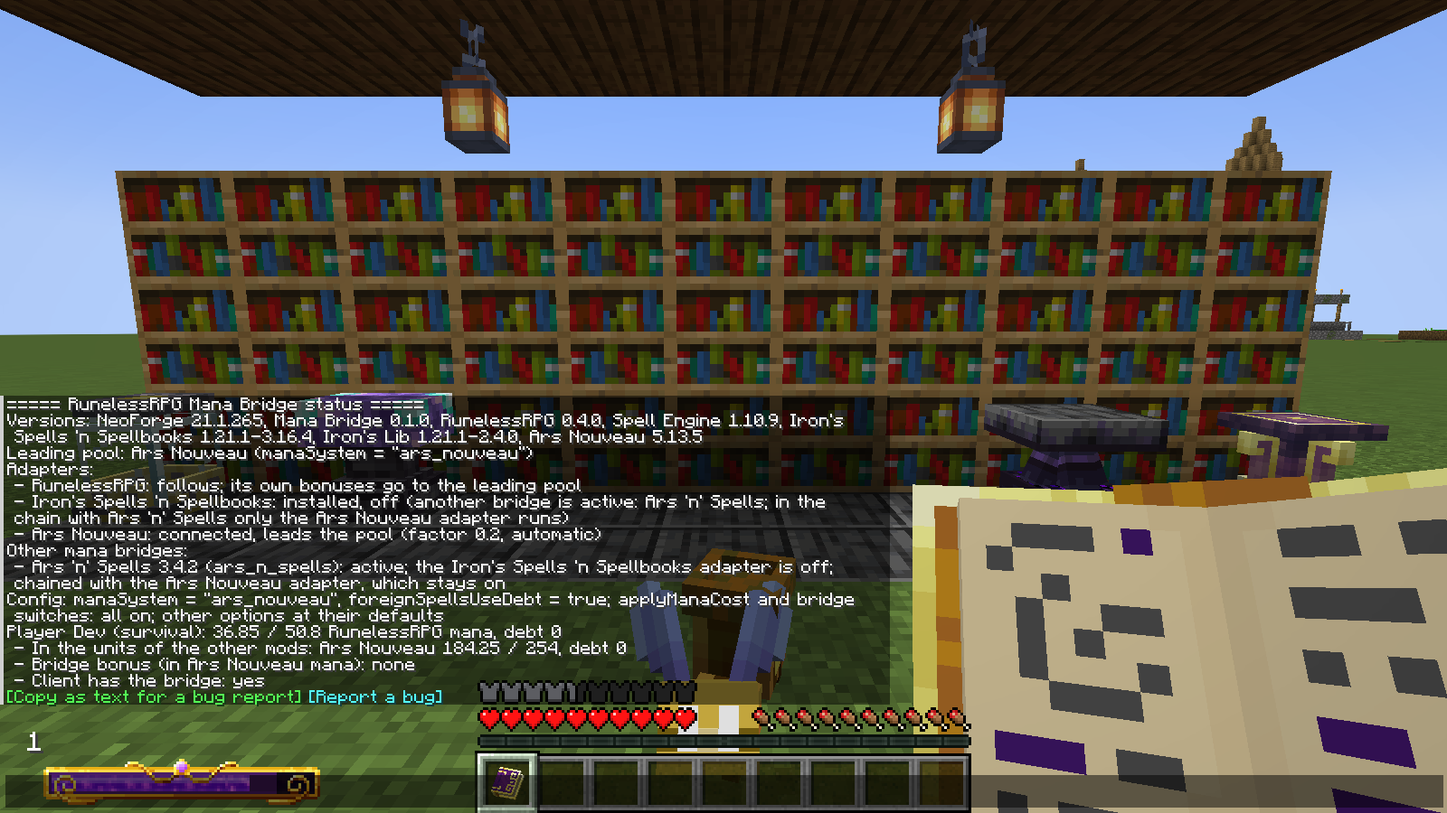
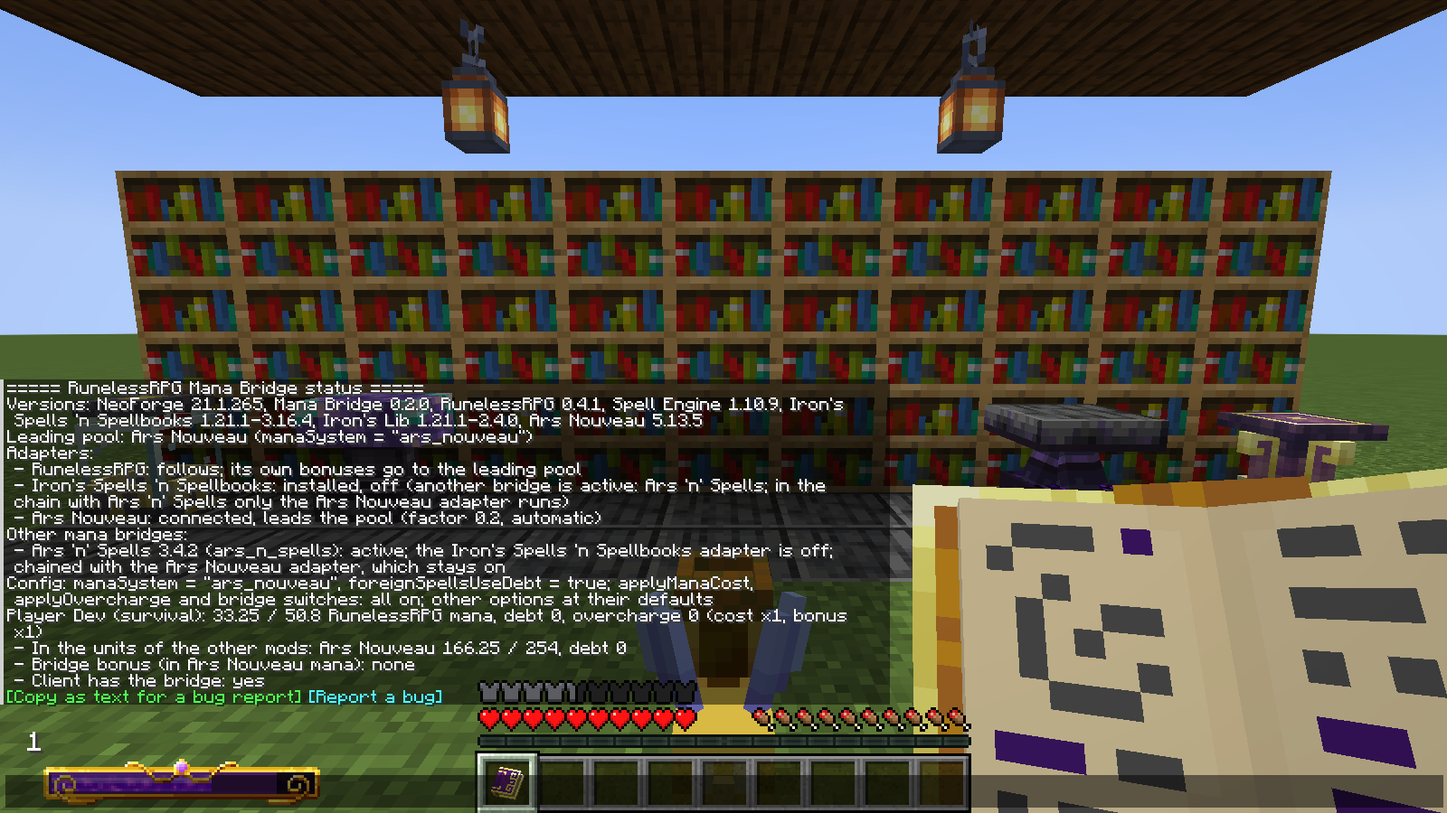
Release 0.2.0: docs, pictures and changelog; show Ars 'n Spells costs as it pays them

diff --git a/src/main/java/com/drehverschluss/runelessrpg_bridge/core/network/OverchargePayload.java b/src/main/java/com/drehverschluss/runelessrpg_bridge/core/network/OverchargePayload.java
@@ -9,33 +9,43 @@ import net.minecraft.network.protocol.common.custom.CustomPacketPayload;
 import net.minecraft.resources.ResourceLocation;
 
 /**
- * Server value {@code applyOvercharge} of every adapter (server → client), for the client's own cost check, the
+ * Server value {@code applyOvercharge} of every adapter and whether another bridge pays that mod's spells itself
+ * ({@code paidByOtherBridge}, since phase C5C.1: Ars 'n Spells) (server → client), for the client's own cost check, the
  * converted cost displays and the overcharge line in tooltips. A payload id of its own (0.2.0): clients and servers of
  * 0.1.0 just do not have it, so {@link BridgeSettingsPayload} stays unchanged and both versions still connect. Without
  * this payload (server 0.1.0) the client counts overcharge as off for spells of other mods, as that server does.
  *
  * @since 0.2.0 (phase C5B)
  */
-public record OverchargePayload(Map<String, Boolean> applyOvercharge) implements CustomPacketPayload {
+public record OverchargePayload(Map<String, Boolean> applyOvercharge, Map<String, Boolean> paidByOtherBridge) implements CustomPacketPayload {
     public static final Type<OverchargePayload> TYPE = new Type<>(ResourceLocation.fromNamespaceAndPath(ManaBridge.MODID, "overcharge"));
 
     public static final StreamCodec<FriendlyByteBuf, OverchargePayload> CODEC = StreamCodec.of(OverchargePayload::write, OverchargePayload::read);
 
     private static void write(FriendlyByteBuf buf, OverchargePayload p) {
-        buf.writeVarInt(p.applyOvercharge.size());
-        for (Map.Entry<String, Boolean> entry : p.applyOvercharge.entrySet()) {
+        writeMap(buf, p.applyOvercharge);
+        writeMap(buf, p.paidByOtherBridge);
+    }
+
+    private static OverchargePayload read(FriendlyByteBuf buf) {
+        return new OverchargePayload(readMap(buf), readMap(buf));
+    }
+
+    private static void writeMap(FriendlyByteBuf buf, Map<String, Boolean> map) {
+        buf.writeVarInt(map.size());
+        for (Map.Entry<String, Boolean> entry : map.entrySet()) {
             buf.writeUtf(entry.getKey());
             buf.writeBoolean(entry.getValue());
         }
     }
 
-    private static OverchargePayload read(FriendlyByteBuf buf) {
+    private static Map<String, Boolean> readMap(FriendlyByteBuf buf) {
         int n = buf.readVarInt();
         Map<String, Boolean> map = new LinkedHashMap<>();
         for (int i = 0; i < n; i++) {
             map.put(buf.readUtf(), buf.readBoolean());
         }
-        return new OverchargePayload(Map.copyOf(map));
+        return Map.copyOf(map);
     }
 
     @Override

diff --git a/src/main/java/com/drehverschluss/runelessrpg_bridge/core/BridgeConfig.java b/src/main/java/com/drehverschluss/runelessrpg_bridge/core/BridgeConfig.java
@@ -64,12 +64,13 @@ public final class BridgeConfig {
                 .translation(key("notifyConflictsInChat"))
                 .define("notifyConflictsInChat", true);
         CHAIN_WITH_ARS_N_SPELLS = b.comment(
-                        "Chain with the mana unification of Ars 'n Spells. Mode \"iss_primary\" (Iron's is its one pool, Ars Nouveau reads",
-                        "it): only the Iron's adapter runs (Iron's <-> leading pool), Ars 'n Spells keeps Ars <-> Iron's, the Ars adapter is",
-                        "off. Mode \"ars_primary\" the other way round: only the Ars adapter runs, the Iron's adapter is off. The adapter that",
-                        "is off cannot lead (manaSystem falls back to \"runelessrpg\"). In a chain the spells that Ars 'n Spells pays for skip",
-                        "mana_cost, mana debt and Spell Mana Leech. Off: any active mana unification turns both adapters off; \"hybrid\"",
-                        "always does. Changes of Ars 'n Spells' mode (also with /ans mode set) are noticed within a second.")
+                        "Chain with the mana unification of Ars 'n Spells. \"iss_primary\": only the Iron's adapter runs, Ars 'n Spells keeps",
+                        "Ars <-> Iron's and pays Ars spells itself. \"ars_primary\": only the Ars adapter runs, Ars 'n Spells pays Iron's and",
+                        "Ars spells itself. The adapter that is off cannot lead (manaSystem falls back to \"runelessrpg\"), and spells of its mod",
+                        "get no Spell Mana Leech. \"separate\": both adapters run, but Ars 'n Spells still pays Ars spells itself. Spells that",
+                        "Ars 'n Spells pays skip mana_cost, mana debt and overcharge of this bridge. For every function set",
+                        "enable_mana_unification = false in ars_n_spells-server.toml. Off: any active mana unification (not \"separate\") turns",
+                        "both adapters off; \"hybrid\" always does. Changes of Ars 'n Spells' mode (also /ans mode set) count within a second.")
                 .translation(key("chainWithArsNSpells"))
                 .define("chainWithArsNSpells", true);
         b.pop();

diff --git a/src/main/java/com/drehverschluss/runelessrpg_bridge/core/network/ClientBridgeState.java b/src/main/java/com/drehverschluss/runelessrpg_bridge/core/network/ClientBridgeState.java
@@ -14,6 +14,8 @@ public final class ClientBridgeState {
     private static volatile Map<String, BridgeSettingsPayload.AdapterState> byId = Map.of();
     /** {@code applyOvercharge} per adapter on the server; empty = server without it (0.1.0) or no server values yet. */
     private static volatile Map<String, Boolean> overcharge = Map.of();
+    /** Per adapter: another bridge pays its spells itself (server value, phase C5C.1); empty = not sent (server 0.1.0). */
+    private static volatile Map<String, Boolean> paidByOtherBridge = Map.of();
     /** Called on the client after new values arrived (set by the client part, which may use client classes). */
     private static volatile Runnable onUpdate = () -> {};
 
@@ -49,7 +51,17 @@ public final class ClientBridgeState {
 
     static void acceptOvercharge(OverchargePayload payload) {
         overcharge = Map.copyOf(payload.applyOvercharge());
+        paidByOtherBridge = Map.copyOf(payload.paidByOtherBridge());
         onUpdate.run();
+    }
+
+    /**
+     * @return true while the server says that another bridge pays this mod's spells itself (Ars 'n Spells): the client
+     *         then shows their costs without {@code mana_cost} and overcharge of the bridge and no overcharge line
+     * @since 0.2.0 (phase C5C.1)
+     */
+    public static boolean paidByOtherBridge(String modId) {
+        return paidByOtherBridge.getOrDefault(modId, false);
     }
 
     /**
@@ -66,6 +78,7 @@ public final class ClientBridgeState {
         current = null;
         byId = Map.of();
         overcharge = Map.of();
+        paidByOtherBridge = Map.of();
     }
 
     /** @return true if the adapter is connected on the server (leading or following) */

diff --git a/src/main/java/com/drehverschluss/runelessrpg_bridge/core/network/BridgeNetwork.java b/src/main/java/com/drehverschluss/runelessrpg_bridge/core/network/BridgeNetwork.java
@@ -59,13 +59,29 @@ public final class BridgeNetwork {
         return new BridgeSettingsPayload(Leader.id(), BridgeConfig.get(BridgeConfig.FOREIGN_SPELLS_USE_DEBT, true), List.copyOf(states));
     }
 
-    /** The current {@code applyOvercharge} of every adapter (server values). */
+    /** The current {@code applyOvercharge} of every adapter and whether another bridge pays its spells (server values). */
     public static OverchargePayload overchargeSnapshot() {
         java.util.Map<String, Boolean> map = new java.util.LinkedHashMap<>();
         for (AdapterHandle handle : Adapters.foreign()) {
             map.put(handle.modId(), handle.configApplyOvercharge());
         }
-        return new OverchargePayload(java.util.Map.copyOf(map));
+        return new OverchargePayload(java.util.Map.copyOf(map), paidByOtherBridge());
+    }
+
+    /**
+     * Per adapter whose mod is loaded: whether another bridge pays its spells itself right now ({@code
+     * ManaAdapter.spellsPaidByOtherBridge}).
+     *
+     * @since 0.2.0 (phase C5C.1)
+     */
+    public static java.util.Map<String, Boolean> paidByOtherBridge() {
+        java.util.Map<String, Boolean> map = new java.util.LinkedHashMap<>();
+        for (AdapterHandle handle : Adapters.foreign()) {
+            if (net.neoforged.fml.ModList.get().isLoaded(handle.modId())) {
+                map.put(handle.modId(), handle.adapter().spellsPaidByOtherBridge());
+            }
+        }
+        return java.util.Map.copyOf(map);
     }
 
     /** @return true if the player's client has the bridge's channel */

diff --git a/src/main/java/com/drehverschluss/runelessrpg_bridge/adapter/ars_nouveau/ArsAdapter.java b/src/main/java/com/drehverschluss/runelessrpg_bridge/adapter/ars_nouveau/ArsAdapter.java
@@ -133,7 +133,7 @@ public final class ArsAdapter implements ManaAdapter {
                 .translation(BridgeConfig.key("disableOwnRegen"))
                 .define("disableOwnRegen", true);
         SPELL_MANA_LEECH = b.comment(
-                        "runelessrpg:spell_mana_leech also works on direct hits of Ars spells the player cast himself (projectile, touch,",
+                        "runelessrpg:spell_mana_leech also works on direct hits of the player's own Ars spells (projectile, touch,",
                         "self, underfoot, burst, delay). Not: damage after a glyph in leechZoneGlyphs, runes, turrets, summons, effects.")
                 .translation(BridgeConfig.key("spellManaLeech"))
                 .define("spellManaLeech", true);
@@ -214,6 +214,12 @@ public final class ArsAdapter implements ManaAdapter {
      * ({@code chainWithArsNSpells}; in ISS_PRIMARY only the Iron's adapter runs). Ars Mana Bridge and Mana Unifier (no
      * switch): always; Unified Mana: while its Ars integration is on.
      */
+    @Override
+    public boolean spellsPaidByOtherBridge() {
+        // Ars 'n Spells pays Ars spells in every mode of its mana unification but "disabled", also in "separate" (C5B 6.4)
+        return net.neoforged.fml.ModList.get().isLoaded("ars_n_spells") && ArsNSpells.billsArsSpells();
+    }
+
     @Override
     public List<ConflictCheck> conflicts() {
         return List.of(

diff --git a/src/main/java/com/drehverschluss/runelessrpg_bridge/core/Conflicts.java b/src/main/java/com/drehverschluss/runelessrpg_bridge/core/Conflicts.java
@@ -35,11 +35,23 @@ public final class Conflicts {
         if (knownBridgeInstalled == null) {
             knownBridgeInstalled = knownIds().stream().anyMatch(ModList.get()::isLoaded);
         }
-        if ((knownBridgeInstalled || !extraMods().isEmpty()) && evaluate()) {
+        if (!knownBridgeInstalled && extraMods().isEmpty()) {
+            return;
+        }
+        boolean changed = evaluate();
+        if (changed) {
             Leader.update(server);
+        }
+        // phase C5C.1: who pays the spells can change without an adapter changing (Ars 'n Spells "separate" <-> "disabled")
+        java.util.Map<String, Boolean> paid = com.drehverschluss.runelessrpg_bridge.core.network.BridgeNetwork.paidByOtherBridge();
+        if (changed || !paid.equals(lastPaid)) {
+            lastPaid = paid;
             com.drehverschluss.runelessrpg_bridge.core.network.BridgeNetwork.sendToAll();
         }
     }
+
+    /** Last {@code paidByOtherBridge} the clients got from the poll (phase C5C.1). */
+    private static java.util.Map<String, Boolean> lastPaid = java.util.Map.of();
 
     /**
      * Looks at all bridges again (their switches can change at runtime).

diff --git a/src/main/java/com/drehverschluss/runelessrpg_bridge/api/ManaAdapter.java b/src/main/java/com/drehverschluss/runelessrpg_bridge/api/ManaAdapter.java
@@ -99,6 +99,18 @@ public interface ManaAdapter {
         return List.of();
     }
 
+    /**
+     * Server side, while the mod is loaded: whether another bridge pays this mod's spells itself right now (Ars 'n Spells
+     * in a mode of its mana unification). Those spells skip {@code mana_cost}, debt and overcharge of this bridge, so the
+     * client shows their costs without them and no overcharge line. The server sends the value to the clients and
+     * looks at it again once a second while another bridge is installed.
+     *
+     * @since 0.2.0 (phase C5C.1)
+     */
+    default boolean spellsPaidByOtherBridge() {
+        return false;
+    }
+
     /** Whether this mod can lead the shared pool ({@code manaSystem}); then {@link #createStorage()} must work. */
     default boolean canLead() {
         return false;

diff --git a/src/main/java/com/drehverschluss/runelessrpg_bridge/core/Pool.java b/src/main/java/com/drehverschluss/runelessrpg_bridge/core/Pool.java
@@ -168,6 +168,11 @@ public final class Pool {
      * lower limit, as for Spell Engine spells). Both off: 1.
      */
     public static double costMultiplier(Player player, String modId) {
+        if (isClient(player) && ClientBridgeState.paidByOtherBridge(modId)) {
+            // another bridge (Ars 'n Spells) pays these spells itself, without mana_cost and overcharge of this bridge:
+            // the client shows and checks what it really takes (phase C5C.1). The server never reaches its hooks then.
+            return 1.0;
+        }
         boolean manaCost = applyManaCost(player, modId);
         boolean overcharge = applyOvercharge(player, modId);
         if (manaCost && overcharge) {

diff --git a/src/main/java/com/drehverschluss/runelessrpg_bridge/core/client/DisplayManager.java b/src/main/java/com/drehverschluss/runelessrpg_bridge/core/client/DisplayManager.java
@@ -205,7 +205,8 @@ public final class DisplayManager {
      * @since 0.2.0 (phase C5B)
      */
     public static @Nullable MutableComponent overchargeLine(Player player, String modId, boolean damage, boolean healing) {
-        if (!Pool.applyOvercharge(player, modId) || !Pool.connected(modId, player)) {
+        if (!Pool.applyOvercharge(player, modId) || !Pool.connected(modId, player)
+                || ClientBridgeState.paidByOtherBridge(modId)) { // another bridge pays these spells without overcharge (C5C.1)
             return null;
         }
         double bonus = RunelessApi.getOverchargeBonus(player) - 1.0;

diff --git a/src/main/java/com/drehverschluss/runelessrpg_bridge/adapter/irons_spellbooks/IronsAdapter.java b/src/main/java/com/drehverschluss/runelessrpg_bridge/adapter/irons_spellbooks/IronsAdapter.java
@@ -165,6 +165,12 @@ public final class IronsAdapter implements ManaAdapter {
      * bridge counts as active.
      */
     @Override
+    public boolean spellsPaidByOtherBridge() {
+        // Ars 'n Spells pays Iron's spells in "ars_primary" (this adapter is off there anyway)
+        return net.neoforged.fml.ModList.get().isLoaded("ars_n_spells") && ArsNSpells.arsPrimary();
+    }
+
+    @Override
     public List<ConflictCheck> conflicts() {
         return List.of(
                 // Ars 'n Spells: only while its mana unification is on (ISS_PRIMARY, ARS_PRIMARY, HYBRID); in ISS_PRIMARY

diff --git a/README.md b/README.md
@@ -11,9 +11,9 @@
   <img alt="Beta" src="https://img.shields.io/badge/Status-Beta-orange">
 </p>
 
-🔮 **One mana pool for all your magic.** RunelessRPG Mana Bridge is a NeoForge mod for Minecraft 1.21.1 (Java 21) that connects [RunelessRPG](https://www.curseforge.com/minecraft/mc-mods/runelessrpg) (mana for Spell Engine spells), [Iron's Spells 'n Spellbooks](https://www.curseforge.com/minecraft/mc-mods/irons-spells-n-spellbooks) and [Ars Nouveau](https://www.curseforge.com/minecraft/mc-mods/ars-nouveau) into one shared mana pool. A Fireball from the RPG Series, a Fireball from Iron's and an Ars spell take their mana from the same pool. The pack chooses which mod leads the pool, and every player chooses which mana bar to see.
+🔮 **One mana pool for all your magic.** RunelessRPG Mana Bridge is a NeoForge mod for Minecraft 1.21.1 (Java 21) that connects [RunelessRPG](https://www.curseforge.com/minecraft/mc-mods/runelessrpg) (mana for Spell Engine spells), [Iron's Spells 'n Spellbooks](https://www.curseforge.com/minecraft/mc-mods/irons-spells-n-spellbooks) and [Ars Nouveau](https://www.curseforge.com/minecraft/mc-mods/ars-nouveau) into one shared mana pool. A Fireball from the RPG Series, a Fireball from Iron's and an Ars spell take their mana from the same pool. The pack chooses which mod leads the pool, and every player chooses which mana bar to see. Since version 0.2.0 the mana system can be chosen in game, and RunelessRPG's Overcharge works on Iron's and Ars spells too.
 
-> **Beta.** This is the first version. I tested it thoroughly with automated tests (all three modes, costs, debt, gear and progress, familiars, displays, other bridges, clients with and without the mod), but I do not play with Iron's Spells 'n Spellbooks or Ars Nouveau myself, so your reports are the real test. Please report bugs on the [issue tracker](https://github.com/Drehverschluss/RunelessRPG-Mana-Bridge/issues) and add the output of `/runelessrpg_bridge status`.
+> **Beta.** Version 0.2.0 is still a beta. I tested it thoroughly with automated tests (all three modes, the choice of the mana system, costs, overcharge for every form of Iron's and Ars spells, debt, gear and progress, familiars, displays, other bridges, clients with and without the mod, clients and servers with 0.1.0), but I do not play with Iron's Spells 'n Spellbooks or Ars Nouveau myself, so your reports are the real test. Please report bugs on the [issue tracker](https://github.com/Drehverschluss/RunelessRPG-Mana-Bridge/issues) and add the output of `/runelessrpg_bridge status`.
 >
 > **Client & Server.** Install it on the server and on every client. A client without it can still join; the pool and the costs are right, only the bar choice and the converted numbers are missing.
 >
@@ -30,15 +30,18 @@ Iron's and Ars are both optional: the bridge connects whichever of the two is in
 | ![The same gear in RunelessRPG and Iron's units](docs/images/0.1.0/03-gear-in-both-units.png) | ![The same gear in RunelessRPG and Ars units](docs/images/0.1.0/10-gear-in-runelessrpg-and-ars-units.png) |
 | ![Iron's spell tooltip and spell wheel with converted costs](docs/images/0.1.0/04-irons-spell-costs.png) | ![Ars' bar flashes red after a failed Spell Engine spell](docs/images/0.1.0/11-ars-bar-red-flash.png) |
 | ![Mana debt: Iron's bar at 0 and RunelessRPG's bar with the minus](docs/images/0.1.0/05-debt.png) | ![Mana debt while Ars leads: Ars' bar at 0 and RunelessRPG's bar with the minus](docs/images/0.1.0/12-debt-ars-leads.png) |
-| ![An Ars familiar reserves part of the pool](docs/images/0.1.0/13-familiar-reserve.png) | ![Output of /runelessrpg_bridge status](docs/images/0.1.0/06-status-command.png) |
-| ![Client options of the bridge](docs/images/0.1.0/07-config-screen.png) | |
+| ![An Ars familiar reserves part of the pool](docs/images/0.1.0/13-familiar-reserve.png) | ![Output of /runelessrpg_bridge status with overcharge](docs/images/0.2.0/06-status-command.png) |
+| ![The question at the first start: which mana system should lead](docs/images/0.2.0/14-mana-system-question.png) | ![The manaSystem button in the config screen with its tooltip](docs/images/0.2.0/15-config-mana-system.png) |
+| ![The question as a chat line for a client without the bridge](docs/images/0.2.0/16-chat-question-without-bridge.png) | ![The command /runelessrpg_bridge manaSystem](docs/images/0.2.0/17-command-mana-system.png) |
+| ![Iron's spell book with Shift: cost and overcharge line](docs/images/0.2.0/18-irons-overcharge-tooltip.png) | ![Ars spell book with the overcharge line](docs/images/0.2.0/19-ars-overcharge-tooltip.png) |
+| ![Client options of the bridge with the displayUnit tooltip](docs/images/0.2.0/07-config-screen.png) | |
 
 ## How it works
 
-RunelessRPG 0.4.0 has an API for other mana systems: a replaceable mana storage, a debt account and helpers to pay for spells of other mods. The bridge sits on top of it. Inside, everything is counted in RunelessRPG mana; every other mod has a **factor** (1 Iron's mana and 1 Ars mana = 0.2 RunelessRPG mana by default: RunelessRPG's base max mana of 20 divided by the other mod's base max mana of 100).
+RunelessRPG (0.4.0 and newer) has an API for other mana systems: a replaceable mana storage, a debt account and helpers to pay for spells of other mods; 0.4.1 added overcharge for spells of other mods. The bridge sits on top of it. Inside, everything is counted in RunelessRPG mana; every other mod has a **factor** (1 Iron's mana and 1 Ars mana = 0.2 RunelessRPG mana by default: RunelessRPG's base max mana of 20 divided by the other mod's base max mana of 100).
 
 - **The leading mod** (`manaSystem`) holds the number. It keeps its own base mana, regeneration and its rules for respawn and death. By default RunelessRPG leads; with `manaSystem = "irons_spellbooks"` Iron's own mana becomes the pool, with `"ars_nouveau"` Ars' own mana.
-- **The other mods follow**: a small set of mixins (only `@Inject`, `@WrapOperation` and `@ModifyReturnValue`) makes them read and write the shared pool in their own units, turns off their own regeneration and lets their spells pay through RunelessRPG with the same cost and debt rules as Spell Engine spells.
+- **The other mods follow**: a small set of mixins (only `@Inject`, `@WrapOperation` and `@ModifyReturnValue`) makes them read and write the shared pool in their own units, turns off their own regeneration and lets their spells pay through RunelessRPG with the same cost, debt and overcharge rules as Spell Engine spells.
 - **Bonuses cross over**: max mana and regeneration bonuses of the following mods (gear, and for Ars also learned glyphs and the spell book tier) are read every tick, converted and added to the leading mod as modifiers of the same operation.
 - **A self test** checks at startup that every mixin found its target. If Iron's or Ars changes in an update, only that adapter turns off with one warning, and the mod works as without the bridge.
 
@@ -47,13 +50,14 @@ Changing the mode only changes the regeneration: the same gear and the same spel
 ## Installation
 
 1. Install NeoForge `21.1` for Minecraft `1.21.1`.
-2. Install [RunelessRPG](https://www.curseforge.com/minecraft/mc-mods/runelessrpg) `0.4.0` or newer with [Spell Engine](https://www.curseforge.com/minecraft/mc-mods/spell-engine).
+2. Install [RunelessRPG](https://www.curseforge.com/minecraft/mc-mods/runelessrpg) `0.4.1` or newer with [Spell Engine](https://www.curseforge.com/minecraft/mc-mods/spell-engine).
 3. Install [Iron's Spells 'n Spellbooks](https://www.curseforge.com/minecraft/mc-mods/irons-spells-n-spellbooks), [Ars Nouveau](https://www.curseforge.com/minecraft/mc-mods/ars-nouveau) or both, with their own dependencies.
-4. Put `runelessrpg_bridge-0.1.0.jar` into the `mods` folder of the **server and of every client**.
+4. Put `runelessrpg_bridge-0.2.0.jar` into the `mods` folder of the **server and of every client**.
+5. At the first login the bridge asks which mana system should lead (in singleplayer, or an operator on a server). Packs that ship their config set `askForManaSystem = false`.
 
 | Mod | Tested version | Needed |
 |---|---|---|
-| RunelessRPG | `0.4.0` | **required** (`0.4.0` or newer) |
+| RunelessRPG | `0.4.1` | **required** (`0.4.1` or newer) |
 | Spell Engine, Spell Power | `1.10.9`, `1.6.0` | required by RunelessRPG |
 | Iron's Spells 'n Spellbooks | `1.21.1-3.16.4` | optional (`1.21.1-3.16.4` or newer) |
 | Iron's Lib | `1.21.1-2.4.0` | required by Iron's Spells 'n Spellbooks |
@@ -76,6 +80,12 @@ Iron's spells, Iron's Mana potion, Gluttony and the `/mana` command, Ars spells 
 
 Packs where Iron's or Ars is the main magic, or with many addons of that mod, should let it lead. More: [Wiki → Modes](https://github.com/Drehverschluss/RunelessRPG-Mana-Bridge/wiki/Modes).
 
+### Choosing the mana system (since 0.2.0)
+- **The question at the first start**: while Iron's or Ars is connected, the owner of a singleplayer world (or the LAN host) or an operator on a server is asked once at login which mana system should lead. Every button shows the base max mana and regeneration it brings, read from the real configs. Every answer turns `askForManaSystem` off; "Decide later" asks again at the next login. A client without the bridge gets a chat line with clickable values.
+- **The command** `/runelessrpg_bridge manaSystem [<id>]`: without an ID it shows the leading pool and the possible values (every player), with an ID it sets and saves `manaSystem` (operators, the console and the owner of a singleplayer or LAN world).
+- **The config screen**: `manaSystem`, `manaDisplay` and `displayUnit` are buttons with readable names and a tooltip for every value; the file keeps the mod IDs. NeoForge lets the screen edit the server config only in a singleplayer world that is not open to LAN; elsewhere the command helps.
+- Every way switches the pool at once, without a restart and without losing mana or debt. The server config counts for every world of an installation or server, unless a world has its own `serverconfig/runelessrpg_bridge-server.toml`.
+
 ### Gear of all mods counts
 Iron's robes, rings, spell books in the spellbook slot and mana upgrade orbs, Ars' Mana Boost and Mana Regen enchantments, armor tiers, curios and the Mana Regeneration potion raise the shared pool while their mod follows (a robe with +125 Iron's max mana gives +25 RunelessRPG max mana, Mana Boost III with +75 Ars max mana gives +15). While Iron's or Ars leads, RunelessRPG's enchantments, affixes and gear raise its mana (+25 RunelessRPG max mana gives +125). Flat values are converted, percent values stay percent.
 
@@ -87,6 +97,9 @@ Iron's robes, rings, spell books in the spellbook slot and mana upgrade orbs, Ar
 ### Costs and debt
 Iron's and Ars spell costs follow `runelessrpg:mana_cost` (with its lower limit and Spell Infinity), and they use the same debt rules as Spell Engine spells (RunelessRPG's DEBT modes, Borrowed Power), in every mode. Iron's and Ars bars cannot show debt, so RunelessRPG's bar appears with the minus while you are in debt. More: [Wiki → Iron's Spells](https://github.com/Drehverschluss/RunelessRPG-Mana-Bridge/wiki/Irons-Spells).
 
+### Overcharge for Iron's and Ars spells (since 0.2.0)
+`runelessrpg:overcharge` works on Iron's and Ars spells with the same rules as on Spell Engine spells: the cost goes up after the lower limit of Mana Cost (an Iron's Fireball costs 14.4 instead of 12 RunelessRPG mana at overcharge 0.2, an Ars projectile with Harm 6 instead of 5), and damage and healing go up by overcharge × RunelessRPG's `overchargeDamageFactor` (× 1.1). Summons, zones and runes keep the bonus they were made with, Iron's projectiles the bonus of the cast that fired them, also after the chunk is saved and loaded. Only spells the player pays through the bridge get it: no scrolls, Ars turrets, runes from Runic Chalk or spells that Ars 'n Spells pays; damage over time and effects stay as they are. Iron's spell tooltips and Ars casting items show "Overcharge: +10% damage", and every converted cost includes the surcharge. Switch: `applyOvercharge` per adapter. More: [Wiki → Overcharge](https://github.com/Drehverschluss/RunelessRPG-Mana-Bridge/wiki/Overcharge).
+
 ### Mana bar and units
 Every player picks the bar (`manaDisplay`: the leading mod's, RunelessRPG's, Iron's, Ars' or all) and the unit of all numbers (`displayUnit`). Iron's spell tooltips, the spell wheel, the Inscription Table, max mana and regeneration values on Iron's and Ars gear, Ars' Rings of Discount and the cost bar in Ars' spell book are converted into that unit, RunelessRPG's own numbers too. Iron's and Ars bars in their "contextual" mode also show while you hold a casting item of another mod. More: [Wiki → Display](https://github.com/Drehverschluss/RunelessRPG-Mana-Bridge/wiki/Display).
 
@@ -94,10 +107,10 @@ Every player picks the bar (`manaDisplay`: the leading mod's, RunelessRPG's, Iro
 `runelessrpg:spell_mana_leech` also works on direct hits of Iron's spells (instant, channeled, projectile and cone spells) and of Ars spells (projectile, touch, self, underfoot, burst, delay), with all of RunelessRPG's rules and one shared counter for all mods. Zones (Iron's zones, Ars' Linger, Wall and Orbit), runes, turrets, summons and damage over time do not count. More: [Wiki → Spell Mana Leech](https://github.com/Drehverschluss/RunelessRPG-Mana-Bridge/wiki/Spell-Mana-Leech).
 
 ### Ars 'n Spells and other mana bridges
-[Ars 'n Spells](https://www.curseforge.com/minecraft/mc-mods/ars-n-spells) connects Iron's and Ars itself. The bridge works with it in a **chain** (`chainWithArsNSpells`): in its mode `iss_primary` only the Iron's adapter runs, in `ars_primary` only the Ars adapter, and Ars 'n Spells keeps Ars ↔ Iron's. In a chain the spells Ars 'n Spells pays for skip Mana Cost and debt, and spells of the mod whose adapter is off give no Spell Mana Leech; with Ars 'n Spells on `separate` every function of both mods and of this bridge works. Ars Mana Bridge, Mana Transform, Mana Unifier and Unified Mana are detected: while one of them connects a mod's mana itself, that adapter turns off with a warning in the log and a chat message for operators, so two bridges never pull at the same pool. More: [Wiki → Other mana bridges](https://github.com/Drehverschluss/RunelessRPG-Mana-Bridge/wiki/Other-Mana-Bridges).
+[Ars 'n Spells](https://www.curseforge.com/minecraft/mc-mods/ars-n-spells) connects Iron's and Ars itself. The bridge works with it in a **chain** (`chainWithArsNSpells`): in its mode `iss_primary` only the Iron's adapter runs, in `ars_primary` only the Ars adapter, and Ars 'n Spells keeps Ars ↔ Iron's. Ars 'n Spells pays some spells itself, and these skip Mana Cost, the debt rules and overcharge of the bridge: Ars spells in every mode of its mana unification (also on `separate`), Iron's spells on `ars_primary`. Spells of the mod whose adapter is off give no Spell Mana Leech. For every function of the bridge with Iron's and Ars spells, set `enable_mana_unification = false` in Ars 'n Spells' server config; it keeps its other functions. Since 0.2.0 Iron's own regeneration no longer flows into the pool on `ars_primary`, and Ars 'n Spells no longer cancels Iron's casts there. Ars Mana Bridge, Mana Transform, Mana Unifier and Unified Mana are detected: while one of them connects a mod's mana itself, that adapter turns off with a warning in the log and a chat message for operators, so two bridges never pull at the same pool. More: [Wiki → Other mana bridges](https://github.com/Drehverschluss/RunelessRPG-Mana-Bridge/wiki/Other-Mana-Bridges).
 
 ### Status command
-`/runelessrpg_bridge status` shows versions, the leading pool, the state of every adapter, other bridges, the config and your own mana. A click at the end copies everything as English text for a bug report. Every player can use it for themselves; operators and the console can add a player name. More: [Wiki → Commands and bug reports](https://github.com/Drehverschluss/RunelessRPG-Mana-Bridge/wiki/Commands-and-Bug-Reports).
+`/runelessrpg_bridge status` shows versions, the leading pool, the state of every adapter, other bridges, the config and your own mana and overcharge. A click at the end copies everything as English text for a bug report. Every player can use it for themselves; operators and the console can add a player name. More: [Wiki → Commands and bug reports](https://github.com/Drehverschluss/RunelessRPG-Mana-Bridge/wiki/Commands-and-Bug-Reports).
 
 ## Configuration
 
@@ -105,11 +118,13 @@ Every player picks the bar (`manaDisplay`: the leading mod's, RunelessRPG's, Iro
 
 | Option | Default | Effect |
 |---|---|---|
-| `general.manaSystem` | `"runelessrpg"` | Which mod leads the pool: `"runelessrpg"`, `"irons_spellbooks"` or `"ars_nouveau"` |
+| `general.manaSystem` | `"runelessrpg"` | Which mod leads the pool: `"runelessrpg"`, `"irons_spellbooks"` or `"ars_nouveau"`; also with `/runelessrpg_bridge manaSystem <id>` |
+| `general.askForManaSystem` | `true` | Ask once at login which mana system should lead (singleplayer owner or operator); packs that ship their config set it to `false` |
 | `general.foreignSpellsUseDebt` | `true` | Iron's and Ars spells may go into debt like Spell Engine spells |
 | `general.chainWithArsNSpells` | `true` | Chain with Ars 'n Spells in its modes `iss_primary` and `ars_primary` |
 | `irons_spellbooks.manaFactor`, `ars_nouveau.manaFactor` | `-1.0` | 1 mana of that mod = this much RunelessRPG mana; −1 = automatic (0.2) |
 | `irons_spellbooks.applyManaCost`, `ars_nouveau.applyManaCost` | `true` | `runelessrpg:mana_cost` applies to that mod's spells |
+| `irons_spellbooks.applyOvercharge`, `ars_nouveau.applyOvercharge` | `true` | `runelessrpg:overcharge` applies to that mod's spells (cost and bonus) |
 | `bridgeMaxMana`, `bridgeManaRegen`, `bridgePercentBonuses` (in `[runelessrpg]`, `[irons_spellbooks]`, `[ars_nouveau]`) | `true` | Which bonuses of that mod's gear count while it does not lead |
 | `ars_nouveau.bridgeProgression`, `ars_nouveau.applyFamiliarReserve` | `true` | Ars progress counts and familiars reserve their share while Ars does not lead |
 
@@ -134,7 +149,7 @@ Add entries with a datapack (`data/runelessrpg_bridge/tags/entity_type/spell_lee
 | Ars Nouveau | connected (follows or leads) |
 | Iron's addons | Their spells and their mana access through Iron's `MagicData` use the shared pool; not tested one by one, see [Wiki → Modes](https://github.com/Drehverschluss/RunelessRPG-Mana-Bridge/wiki/Modes) |
 | Ars addons | Their spells, their mana access through Ars' mana capability and their changes to Ars' max mana and regeneration count; not tested one by one (Ars Elemental 0.7.6.6 only for start, spells, max mana and regeneration) |
-| Ars 'n Spells | chain in `iss_primary` and `ars_primary` (one adapter runs), both adapters run in `separate`, both are off in `hybrid` |
+| Ars 'n Spells | chain in `iss_primary` and `ars_primary` (one adapter runs), both adapters run in `separate` (Ars 'n Spells still pays Ars spells there), both are off in `hybrid`; every function with `enable_mana_unification = false` |
 | Ars Mana Bridge, Mana Transform, Mana Unifier, Unified Mana | detected; the affected adapter turns off while they connect that mod's mana |
 | Miki's Fantasy HUD | RunelessRPG's bar docks there as before; where Iron's and Ars bars sit is set in their own client configs |
 | Gearscope | shows max mana values of Iron's gear in the display unit; Ars values take the same way (not tested with Gearscope) |
@@ -144,9 +159,9 @@ Add entries with a datapack (`data/runelessrpg_bridge/tags/entity_type/spell_lee
 | Package | Content |
 |---|---|
 | `com.drehverschluss.runelessrpg_bridge` | `ManaBridge` (common entry point) and `ManaBridgeClient` (client entry point) |
-| `api` | `ManaAdapter` (one adapter per mana mod, experimental), `AdapterStatus`, `BridgeBonus`, `ConflictCheck` |
-| `core` | Leading pool, the switch in other mods' units (`Pool`), bonus bridge, configs, self test, detection of other bridges, status command; no class of another mod |
-| `core.network`, `core.client` | Optional settings payload to the clients; bar choice and display unit |
+| `api` | `ManaAdapter` (one adapter per mana mod, experimental), `AdapterStatus`, `BridgeBonus`, `ConflictCheck`, `LeadInfo` |
+| `core` | Leading pool, the switch in other mods' units (`Pool`), bonus bridge, overcharge for spells of other mods, configs, the choice of the mana system (command and question), self test, detection of other bridges, status command; no class of another mod |
+| `core.network`, `core.client` | Optional payloads to the clients (settings, overcharge, the question); bar choice, display unit, config screen buttons, the question window |
 | `adapter.runelessrpg` | RunelessRPG as an adapter (its storage, its bonuses) |
 | `adapter.irons_spellbooks` | Iron's adapter: description, hooks, storage while Iron's leads, cost listener, leech rule, mixins (own mixin config, only loaded with Iron's) |
 | `adapter.ars_nouveau` | Ars adapter: description, hooks, events, storage while Ars leads, leech rule, mixins (own mixin config, only loaded with Ars) |
@@ -165,7 +180,7 @@ Requires Java 21. Every mod is compiled against from a Maven (RunelessRPG from C
 
 The dev runs load test mods from `libs/test/` (git-ignored) in groups. The Gradle property `test_mods` picks them: `none` (only RunelessRPG with Spell Engine and the RPG Series), `irons`, `ars` or `irons,ars` (default), for example `./gradlew runServer -Ptest_mods=none`. Every change is tested in all four groups.
 
-For every version I run an automated test: a dedicated server plays a script tick by tick (casting spells of all three mods, changing configs at runtime, switching between all three modes, debt, gear and Ars progress, familiars, relog, respawn, other bridges and chains, two clients, clients and servers without the bridge), and the client takes pictures and reads tooltips on request. The test code is removed before the release.
+For every version I run an automated test: a dedicated server plays a script tick by tick (casting spells of all three mods, every form of Iron's and Ars spells with overcharge, changing configs at runtime, switching between all three modes, debt, gear and Ars progress, familiars, relog, respawn, other bridges and chains, two clients, clients and servers without the bridge), and the client takes pictures, reads tooltips and clicks through the config screen and the question on request. The test code is removed before the release.
 
 ## License and credits
 

diff --git a/CHANGELOG.md b/CHANGELOG.md
@@ -1,5 +1,23 @@
 # Changelog
 
+## 0.2.0 (Beta)
+
+Still a beta. I tested it thoroughly with automated tests (every form of Iron's and Ars spells with overcharge, the question, the command and the config screen in all test groups, the chain with Ars 'n Spells), but I do not play with Iron's Spells 'n Spellbooks or Ars Nouveau myself, so your reports are the real test. Please report bugs on the [issue tracker](https://github.com/Drehverschluss/RunelessRPG-Mana-Bridge/issues) and add the output of `/runelessrpg_bridge status`.
+
+- **Requires RunelessRPG 0.4.1 or newer**: it adds the methods for overcharge on spells of other mods.
+- **Added: a question at the first login which mana system should lead the shared pool**, for the owner of a singleplayer world (also the LAN host) or an operator on a server, while Iron's or Ars is connected. Every button shows the base max mana and regeneration it brings, read from the real configs. Every answer turns the new server option `askForManaSystem` off; "Decide later" asks again at the next login. Clients without the bridge get a chat line with clickable values. Packs that ship their config should set `askForManaSystem = false`.
+- **Added: command `/runelessrpg_bridge manaSystem [<id>]`** to show the leading pool and the possible values (every player) or to change it at runtime without losing mana or debt (operators, the console and the owner of a singleplayer or LAN world). Tab completion offers only values that can lead right now.
+- **Changed: `manaSystem` and `manaDisplay` are choice buttons in the config screen** with readable names and a tooltip for every value; values that do not work right now stay in the file and show as not available. `displayUnit` shows readable names (Automatic, Leading mod, RunelessRPG mana) and a tooltip for every value. The config file keeps the mod IDs and AUTO, LEADER and RUNELESS.
+- **Added: `runelessrpg:overcharge` works on Iron's Spells 'n Spellbooks and Ars Nouveau spells** with the same rules as on Spell Engine spells: they cost more (after the lower limit of Mana Cost) and deal more damage and healing (RunelessRPG's `overchargeDamageFactor` and `overchargeAffectsHealing`). With overcharge 0.2 an Iron's Fireball costs 14.4 instead of 12 RunelessRPG mana and deals 10 % more damage. New server option `applyOvercharge` per adapter (default `true`).
+- **Added: summons, zones and runes of Iron's and Ars spells keep the overcharge bonus they were made with** (`overchargeAffectsSummons`), also after the chunk is saved and loaded; Iron's projectiles keep the bonus of the cast that fired them. Only spells the player pays through the bridge get the bonus: no scrolls, Ars turrets or runes from Runic Chalk, no spells that Ars 'n Spells pays; damage over time and effects stay as they are. Creative players pay nothing and get the bonus, as with Spell Engine.
+- **Added: the overcharge line** ("Overcharge: +10% damage") in the tooltip of the active Iron's spell and of Ars casting items; all converted cost displays include the surcharge. The status command shows the player's overcharge with the cost and bonus factor, and `applyOvercharge`.
+- **Fixed: in the chain with Ars 'n Spells on `ars_primary`**, Iron's own regeneration no longer adds to the shared pool (`disableOwnRegen` covers it now), and Ars 'n Spells no longer cancels Iron's spells with `RESOURCE_CHANGED` while RunelessRPG leads (a rounding difference in the conversion).
+- **Fixed: the Ars spell book and the converted Ars costs show what Ars 'n Spells really takes** while it pays Ars spells itself: without Mana Cost and the overcharge surcharge of the bridge, and without the overcharge line. A change of its mode (also `/ans mode set`) reaches the clients within a second.
+- **Fixed:** a known bridge that is also listed in `conflictingMods` is named once in the warning, the chat message and the status.
+- **Corrected in the docs: Ars 'n Spells pays Ars spells itself in every mode of its mana unification, also on `separate`.** Mana Cost, the debt rules and overcharge of the bridge do not apply to these Ars spells (this was already so in 0.1.0; the 0.1.0 docs were wrong about `separate`). For every function of the bridge with Iron's and Ars spells, set `enable_mana_unification = false` in `ars_n_spells-server.toml`; Ars 'n Spells keeps its other functions.
+- **Corrected in the docs:** while Ars leads, Ars *can* cut the mana to the max without gear on relog and respawn; it depends on the tick and does not happen every time.
+- Clients and servers with 0.1.0 can still connect to 0.2.0: the new payloads use the optional channel. A 0.1.0 client gets the question as a chat line and shows costs without the overcharge surcharge (the server still takes it); a 0.1.0 server has no question and no overcharge for Iron's and Ars spells.
+
 ## 0.1.0 (Beta)
 
 First public version, released as a beta. I tested it thoroughly with automated tests, but I do not play with Iron's Spells 'n Spellbooks or Ars Nouveau myself, so your reports are the real test. Please report bugs on the [issue tracker](https://github.com/Drehverschluss/RunelessRPG-Mana-Bridge/issues) and add the output of `/runelessrpg_bridge status`.
